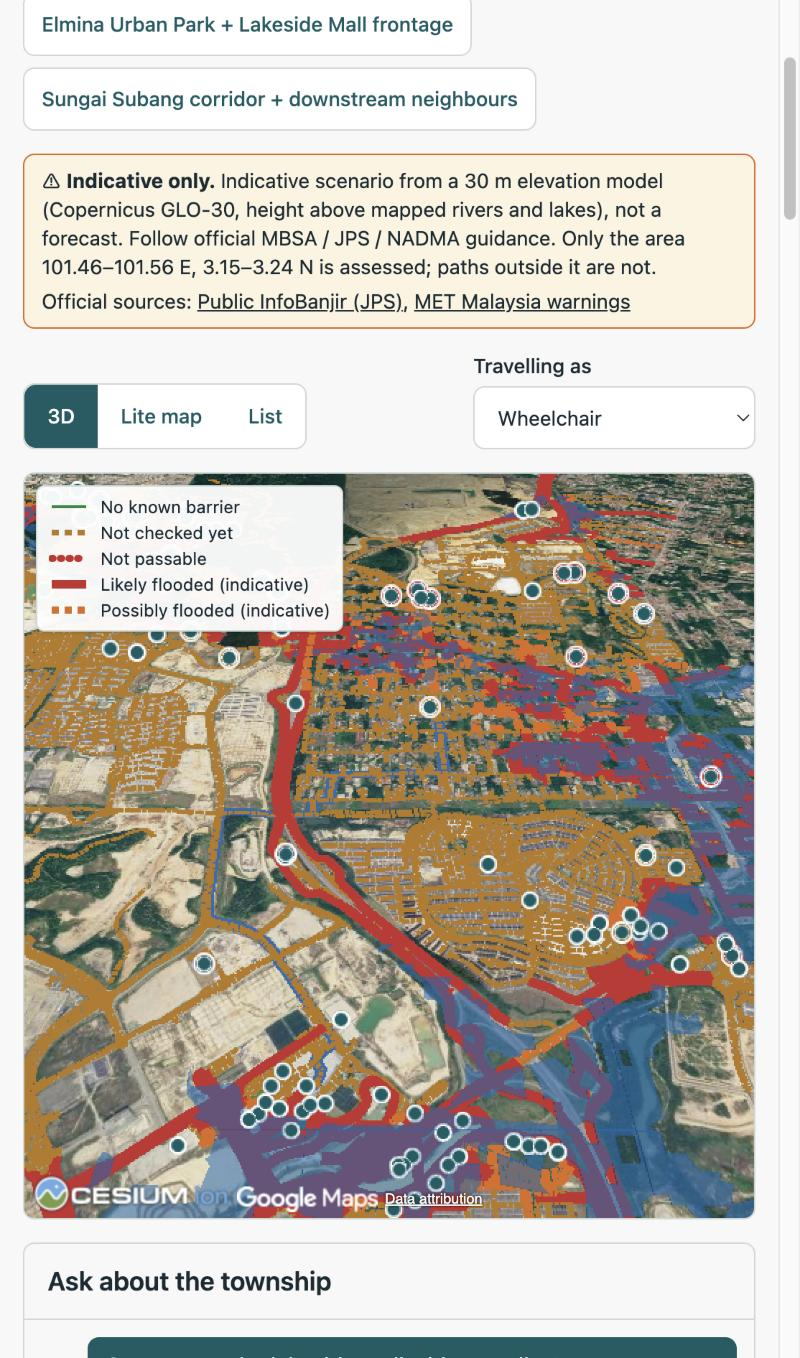
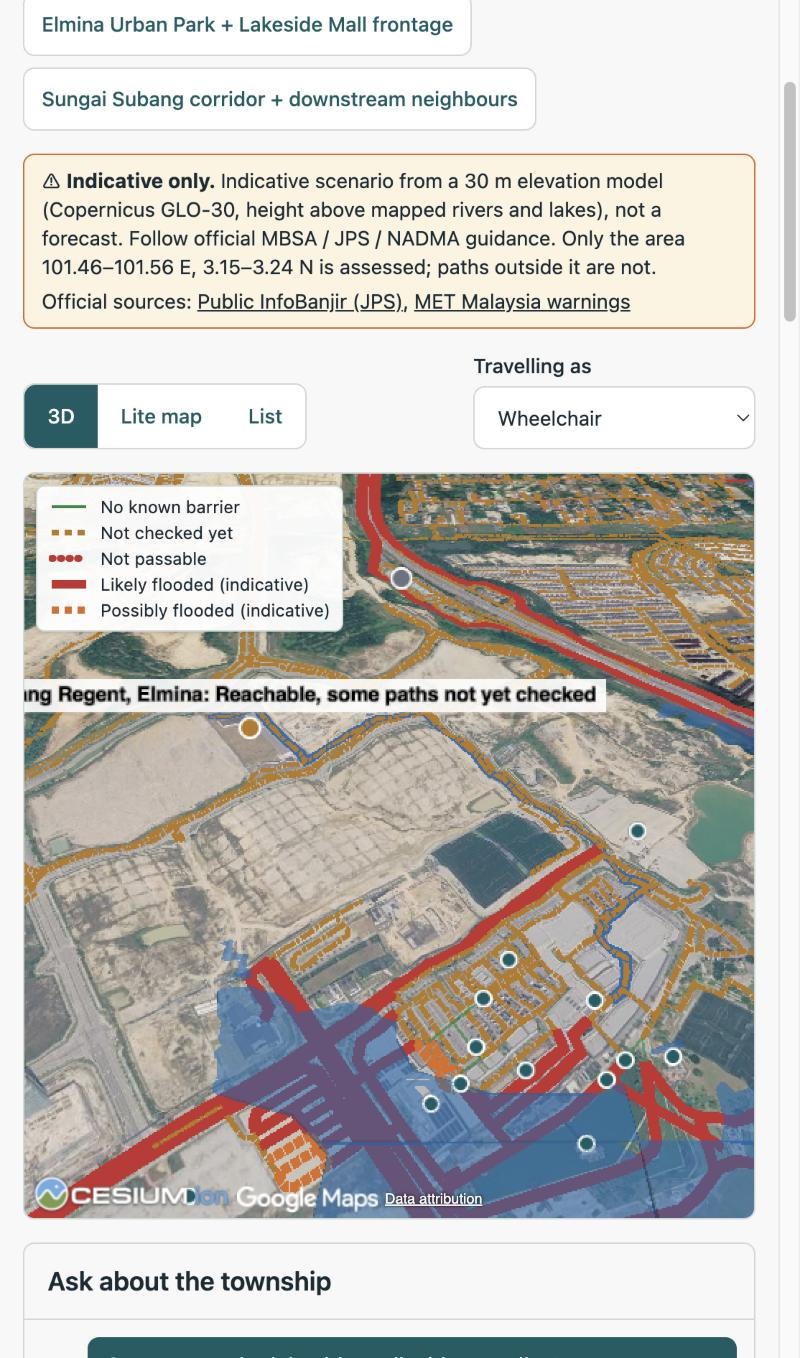
docs(pitch): re-capture screenshots after the seed rebuild and review #3 fixes

diff --git a/docs/06-pitch/screenshots/README.md b/docs/06-pitch/screenshots/README.md
@@ -1,12 +1,12 @@
 # Pitch screenshots (real app, not mock-ups)
 
-Captured 2026-10-15 from `main` on the real Elmina seed, `DEMO_MODE=true` with the deterministic mock assistant (answers are mock-backed, not a live model), Google Photorealistic 3D tiles.
+Captured 2026-10-15 (re-captured 15:20 after the Task 43 seed rebuild) from `main` on the real Elmina seed, `DEMO_MODE=true` with the deterministic mock assistant (answers are mock-backed, not a live model), Google Photorealistic 3D tiles.
 
 | File | Shows |
 |---|---|
 | `01-access-stroller-route-3d.jpg` | Stroller route Car Park B → Elmina Lakeside Mall on 3D; unchecked paths dashed amber; answer states "Route status: partly unverified", names unchecked items, says the team was asked to check them, and labels placeholder facts "demo values, not yet surveyed". |
-| `02-flood-p3m-wheelchair-where-can-i-go.jpg` | River +3 m (indicative) at the Sungai Subang corridor, wheelchair profile; disclaimer banner; likely-flooded paths red, water blue; "Where can I go?" answer names the nearest candidate centre (not an official PPS) and "not a forecast". |
-| `03-manage-flood-briefing-baseline-vs-p3m.jpg` | Management flood briefing: normal river level vs +3 m side by side, origin labelled as the demo start point. |
-| `04-gap-map-wheelchair-not-yet-checked.jpg` | Gap map: "Most paths are not yet checked: 16,131 of 16,148 for wheelchair travel" — the honest case for the field survey / SDP data partnership. |
+| `02-flood-p3m-wheelchair-where-can-i-go.jpg` | River +3 m (indicative), wheelchair profile; disclaimer banner; likely-flooded paths red, water blue; the camera flies to the nearest reachable candidate centre, SJK (C) Ladang Regent, Elmina ("Reachable, some paths not yet checked"); the answer says it is a candidate, not an official PPS, that its entrance is not mapped, that 10 of the 66 unchecked items were sent to the township team, and "not a forecast". |
+| `03-manage-flood-briefing-baseline-vs-p3m.jpg` | Management flood briefing: normal river level vs +3 m side by side (default profile: likely-flooded paths 0 → 1,353, places affected 0 → 29, centres reachable 25 → 3), origin labelled as the demo start point. |
+| `04-gap-map-wheelchair-not-yet-checked.jpg` | Gap map: "Most paths are not yet checked: 16,148 of 16,148 for wheelchair travel. 18 of them rest on demo values, not yet surveyed." — the honest case for the field survey / SDP data partnership. |
 
 Every flood screenshot carries "indicative scenario, not a forecast". Re-capture after data or UI changes; keep this table in sync.
